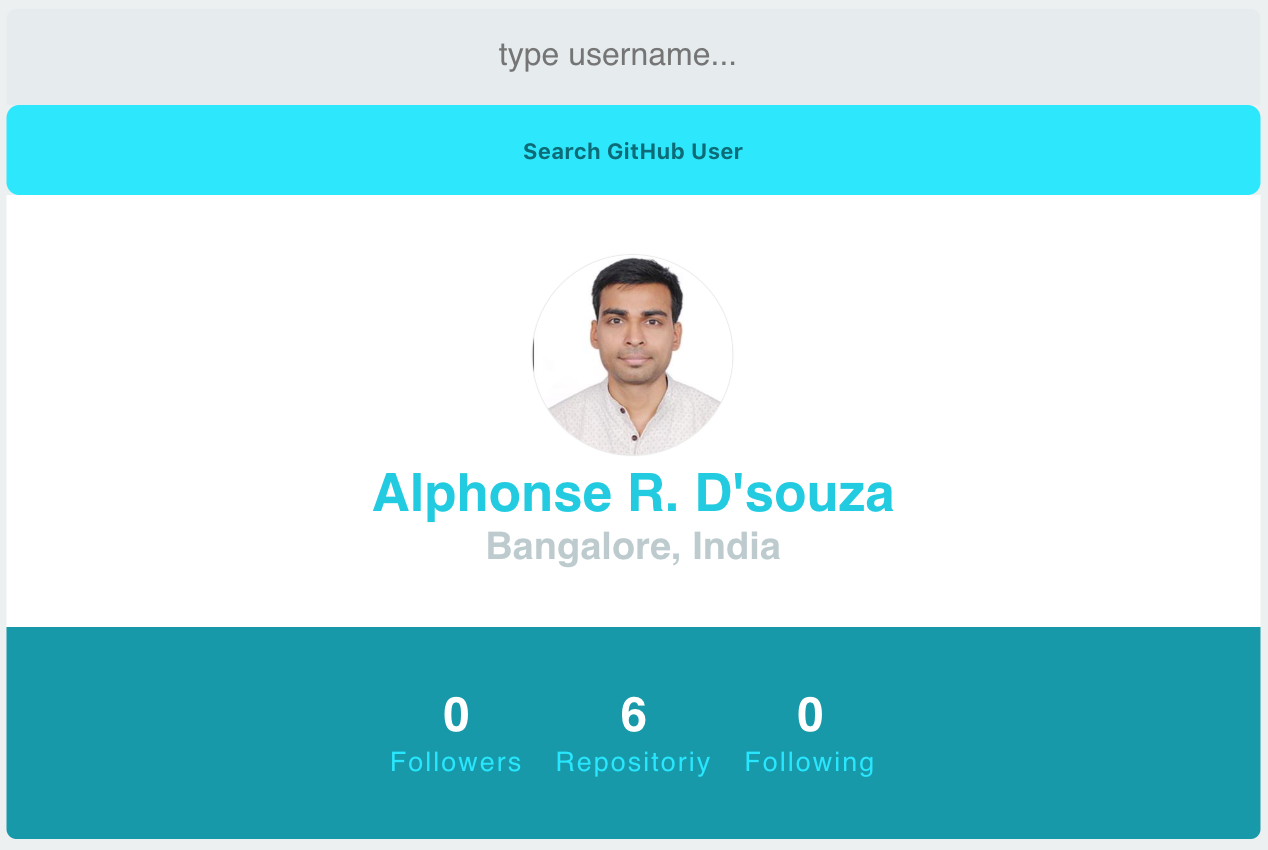
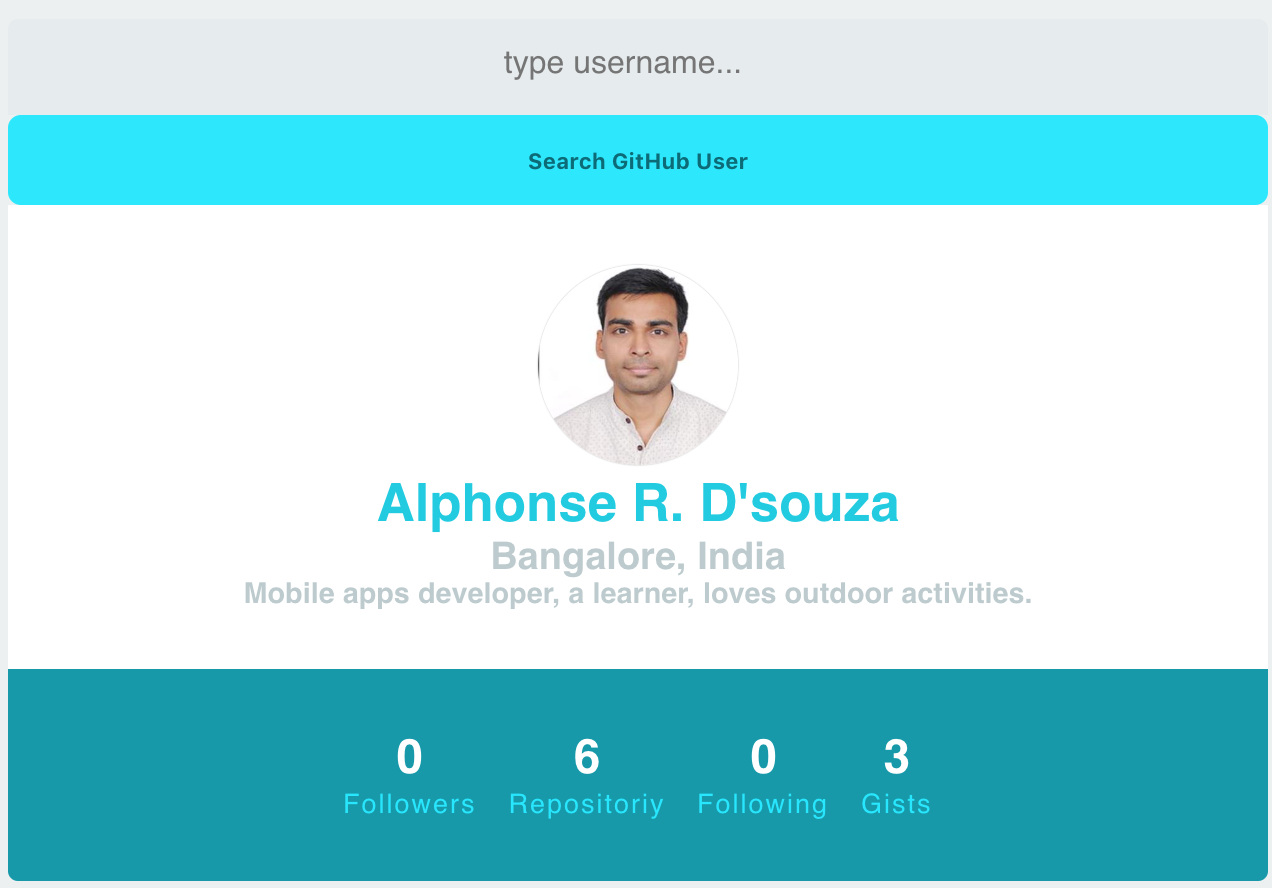
Added Gist count and Bio data

diff --git a/src/components/Profile.js b/src/components/Profile.js
@@ -7,6 +7,7 @@ class Profile extends React.Component {
     let followers = `${data.homeUrl}/followers`;
     let repositories = `${data.homeUrl}?tab=repositories`;
     let following = `${data.homeUrl}/following`;
+    let gists = `${data.homeUrl}`;
     if (data.notFound === "Not Found")
       return (
         <div className="notfound">
@@ -33,6 +34,7 @@ class Profile extends React.Component {
               </a>
             </h2>
             <h3>{data.location || "I Live In My Mind"}</h3>
+            <h4>{data.bio}</h4>
           </div>
           <div className="github--profile__state">
             <ul>
@@ -56,6 +58,12 @@ class Profile extends React.Component {
                 <a href={following} target="_blank" title="Number Of Following">
                   <i>{data.following}</i>
                   <span>Following</span>
+                </a>
+              </li>
+              <li>
+                <a href={gists} target="_blank" title="Number of gists">
+                  <i>{data.gists}</i>
+                  <span>Gists</span>
                 </a>
               </li>
             </ul>

diff --git a/src/App.js b/src/App.js
@@ -3,24 +3,28 @@ import SearchProfile from "./components/SearchProfile";
 import Profile from "./components/Profile";
 
 const API = "https://api.github.com/users";
-
+const userName = "alphonserdsouza"; //Intial value can be changed
 class App extends React.Component {
   constructor(props) {
     super(props);
     this.state = {
-      username: "alphonserdsouza",
+      username: userName,
       name: "",
       avatar: "",
       location: "",
       repos: "",
+      bio: "",
+      gists: "",
       followers: "",
       following: "",
       homeUrl: "",
       notFound: ""
     };
   }
+
   fetchProfile(username) {
     let url = `${API}/${username}`;
+    // let urlString = API + username;
     fetch(url)
       .then(res => res.json())
       .then(data => {
@@ -30,6 +34,8 @@ class App extends React.Component {
           avatar: data.avatar_url,
           location: data.location,
           repos: data.public_repos,
+          bio: data.bio,
+          gists: data.public_gists,
           followers: data.followers,
           following: data.following,
           homeUrl: data.html_url,

diff --git a/src/index.js b/src/index.js
@@ -1,14 +1,6 @@
 import React from "react";
 import ReactDOM from "react-dom";
 import "./index.css";
-// import App from "./App";
 import App from "./App";
 
-// import * as serviceWorker from "./serviceWorker";
-
 ReactDOM.render(<App />, document.getElementById("root"));
-// ReactDOM.render(<App />, document.body);
-// If you want your app to work offline and load faster, you can change
-// unregister() to register() below. Note this comes with some pitfalls.
-// Learn more about service workers: https://bit.ly/CRA-PWA
-// serviceWorker.unregister();

diff --git a/src/styles/Style.scss b/src/styles/Style.scss
@@ -99,6 +99,10 @@ a {
       font-size: 1.1885rem;
       color: darken($gray, 16%);
     }
+    h4 {
+      font-size: 0.9rem;
+      color: darken($gray, 16%);
+    }
   }
   &__state {
     background: $primary;
